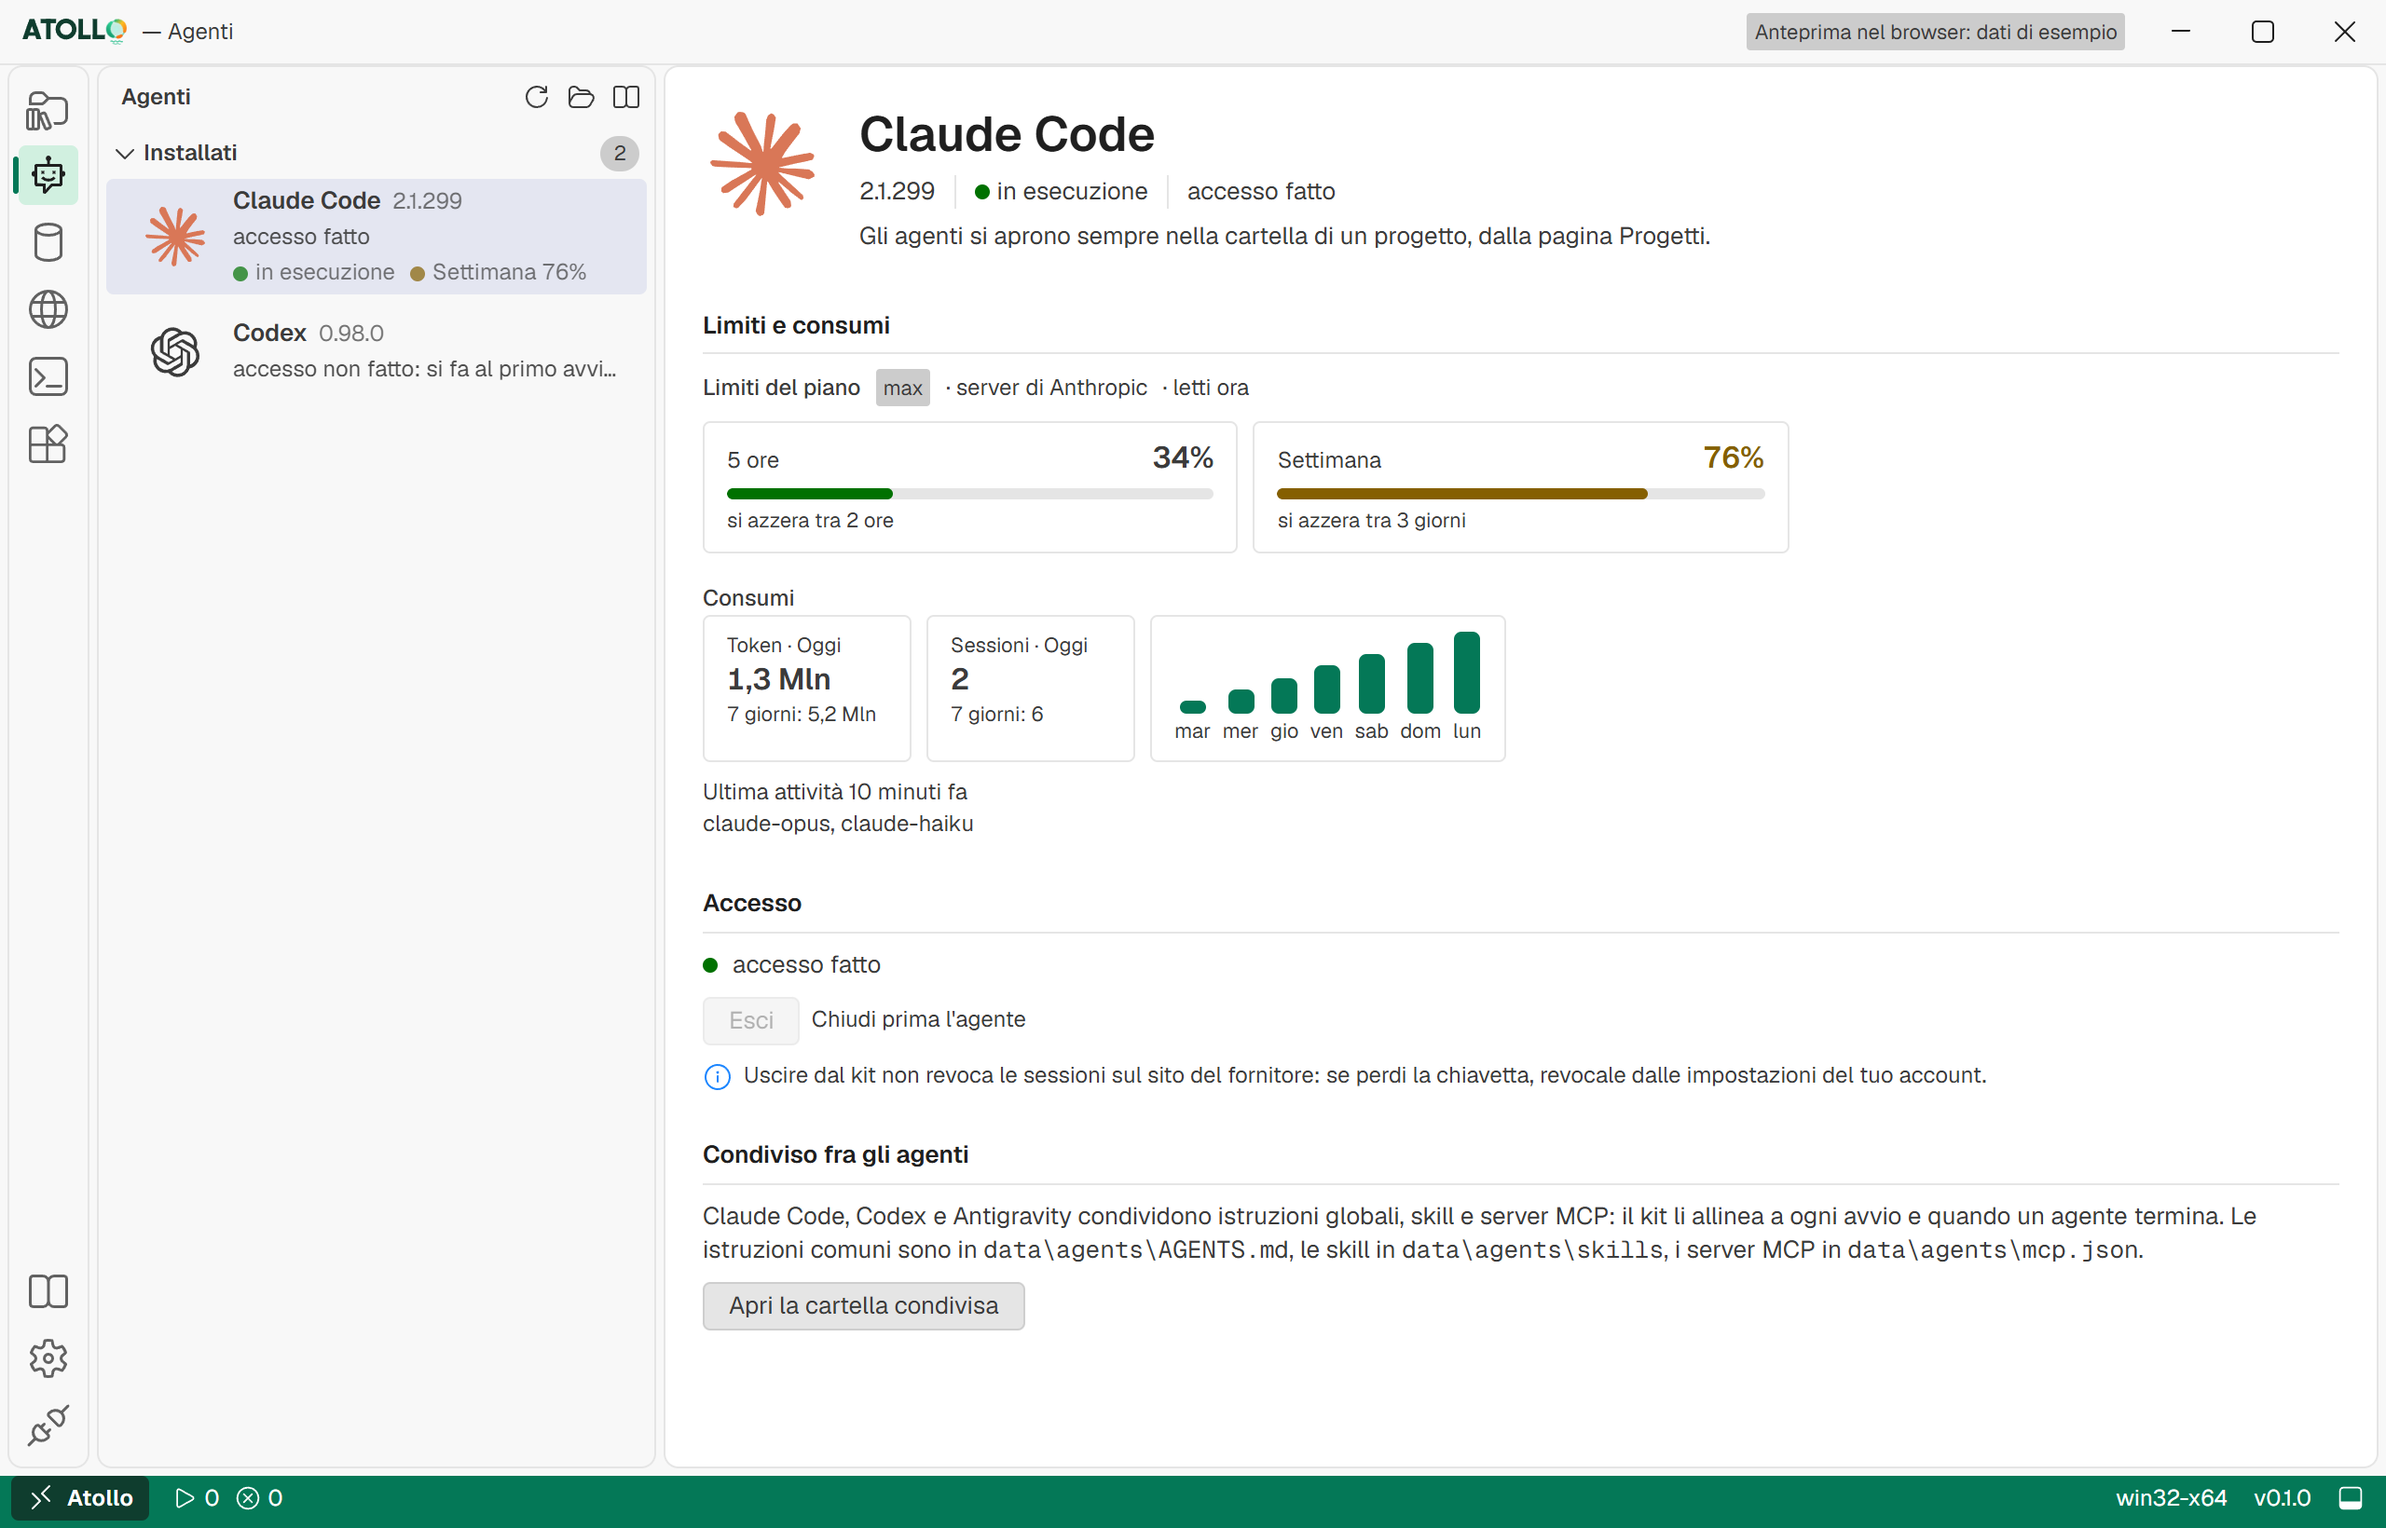
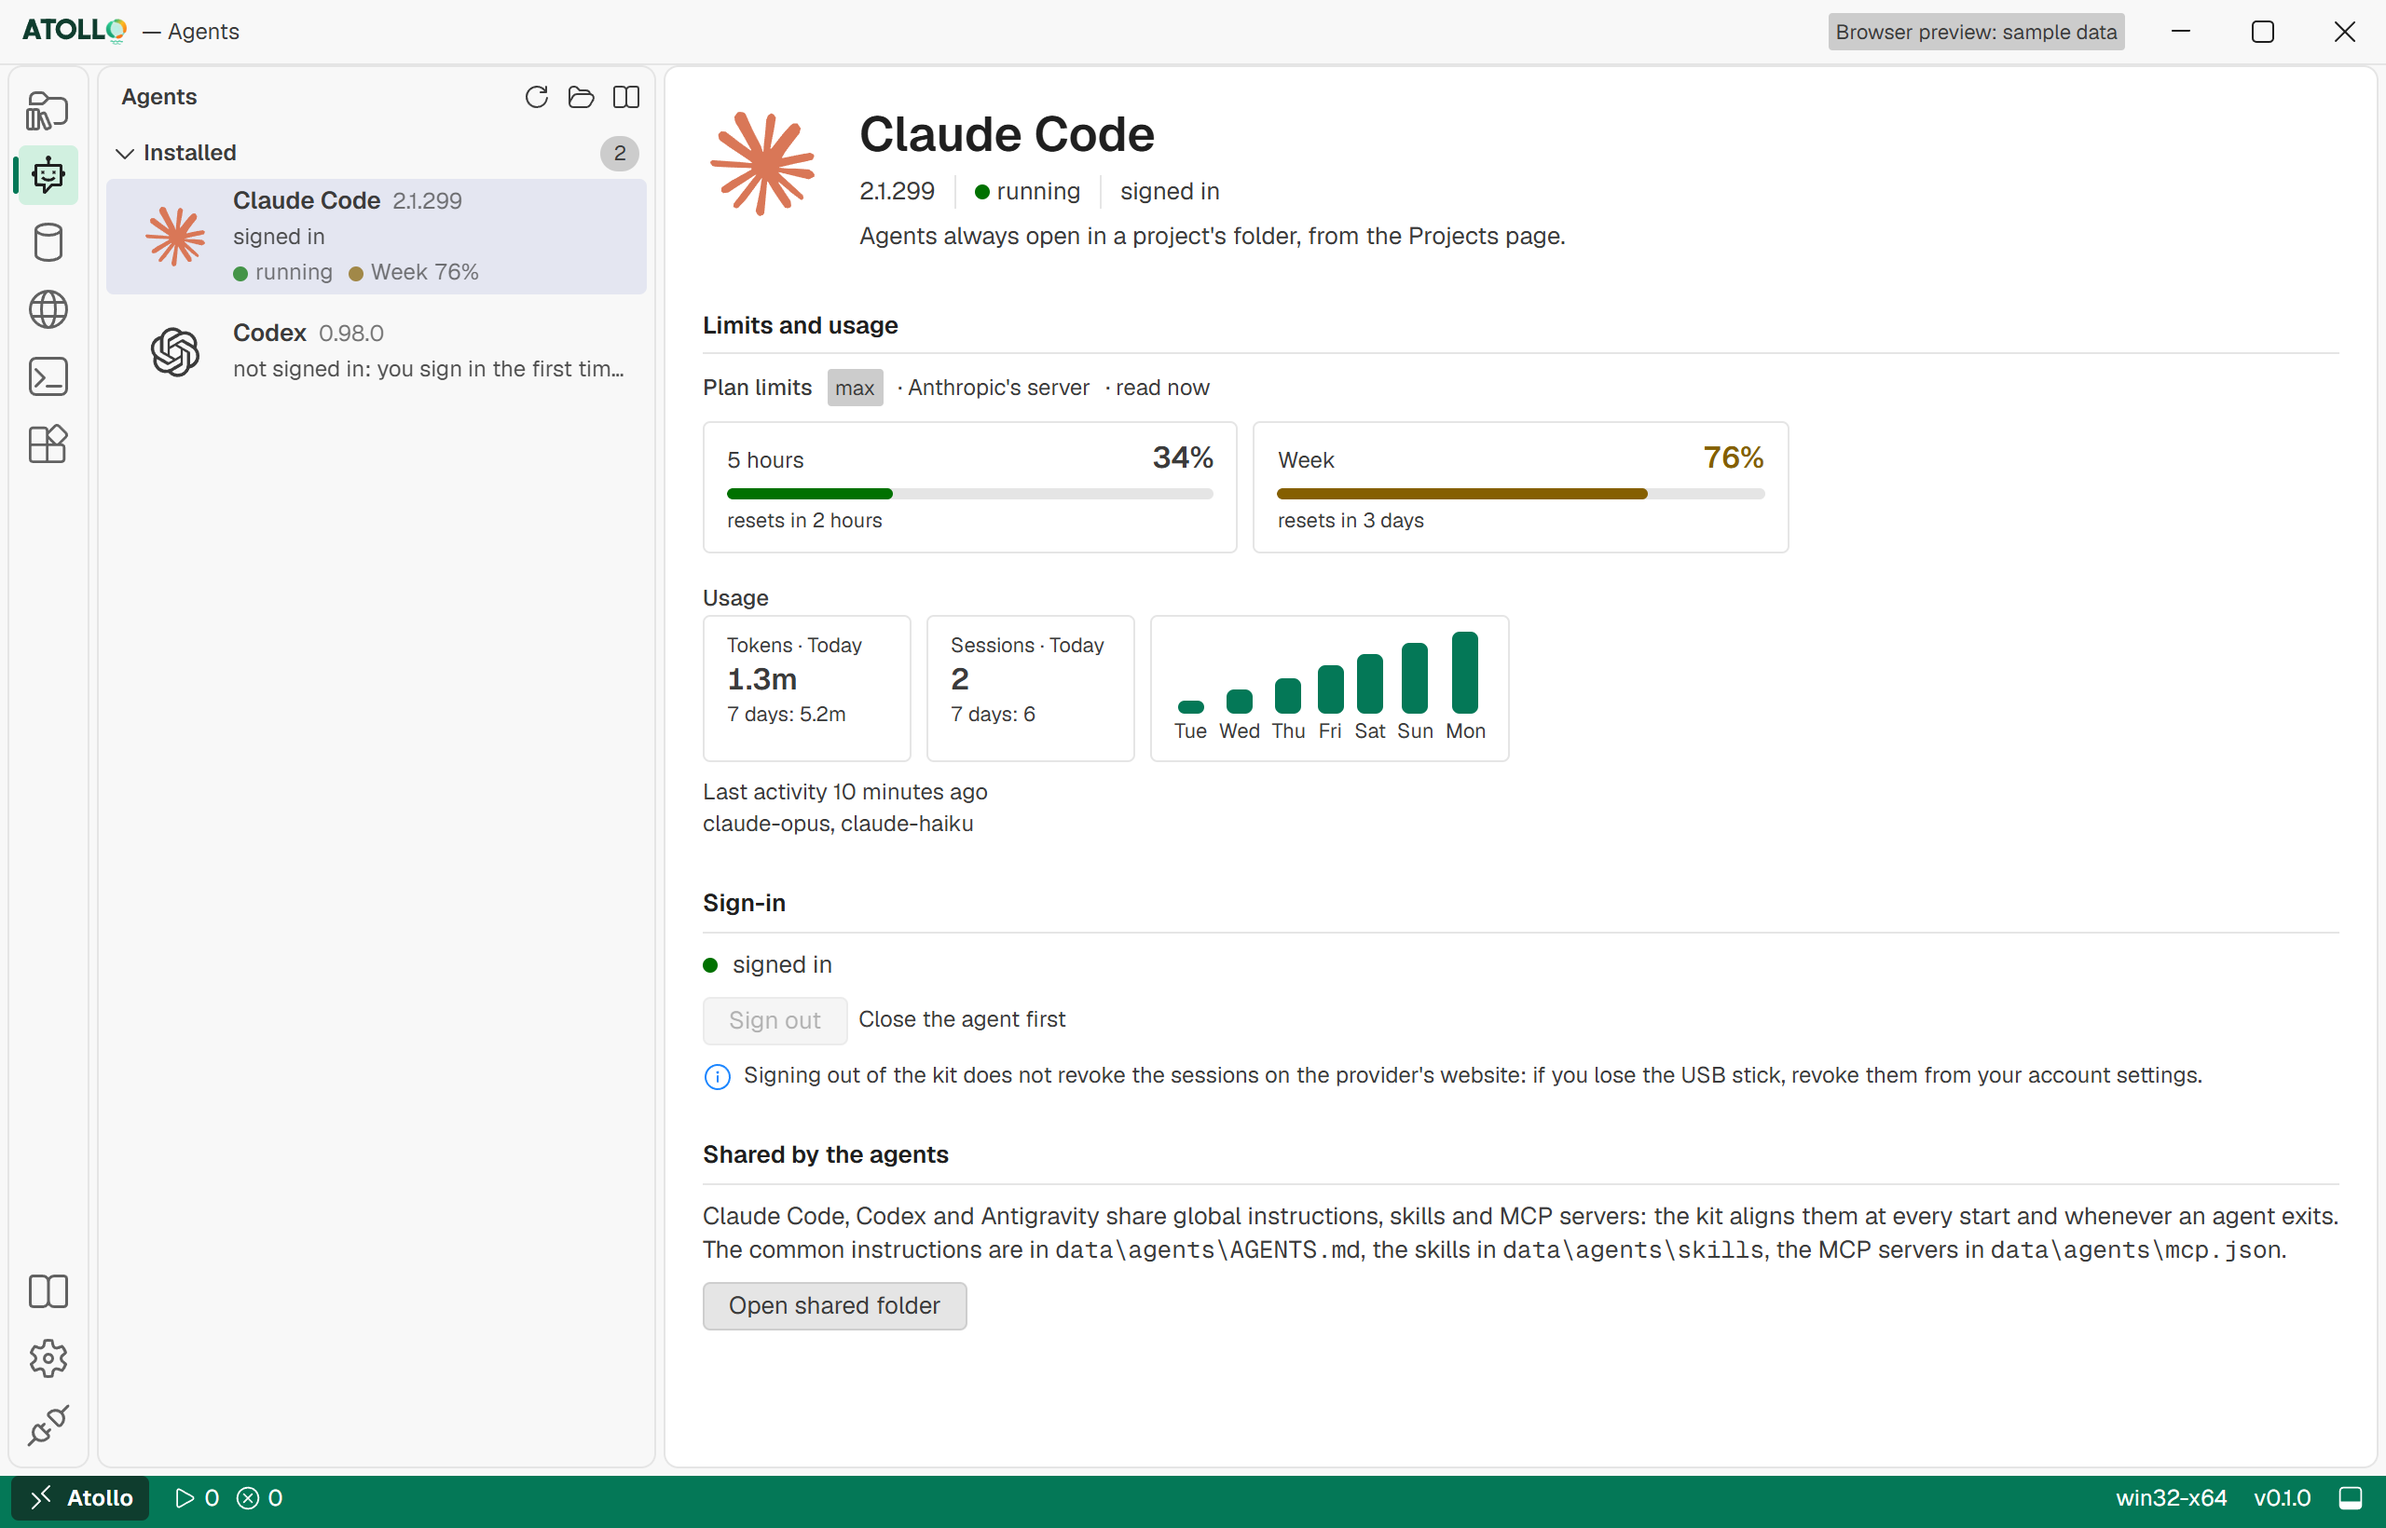
feat(site): the screenshots show the app in English
The browser preview takes ?lang=en|fr|de (core.ts previewLang) and the
texts the engine sends already translated ("Sito statico", "5 ore",
"Settimana", "server di Anthropic") pass through engineText in the
sample data, with their translation beside them. make.mjs shoots the
six screenshots in English: the site in every language and the READMEs
show them (D-135).

diff --git a/ui/src/api/agents.ts b/ui/src/api/agents.ts
@@ -2,7 +2,7 @@
 // (tauri/src/stats), launch. Rust: tauri/src/commands/agents.rs.
 
 import { invoke } from "@tauri-apps/api/core";
-import { act, browserPreview, query } from "./core";
+import { act, browserPreview, engineText, query } from "./core";
 
 export type AgentId = "claude" | "codex" | "antigravity";
 
@@ -120,6 +120,8 @@ export interface StatsReport {
 
 function sampleStats(): StatsReport {
   const day = 24 * 3600 * 1000;
+  const fiveHours = engineText("5 ore", { en: "5 hours", fr: "5 heures", de: "5 Stunden" });
+  const week = engineText("Settimana", { en: "Week", fr: "Semaine", de: "Woche" });
   const today = new Date();
   today.setHours(0, 0, 0, 0);
   const tokens = (n: number): Tokens => ({ input: n, cached: n * 8, output: n / 4, total: n * 9.25 });
@@ -143,7 +145,11 @@ function sampleStats(): StatsReport {
     plan: "max",
     windows,
     credits: null,
-    source: "server di Anthropic",
+    source: engineText("server di Anthropic", {
+      en: "Anthropic's server",
+      fr: "serveur d'Anthropic",
+      de: "Server von Anthropic",
+    }),
     note: null,
     error: null,
     updated: Date.now(),
@@ -160,12 +166,12 @@ function sampleStats(): StatsReport {
         name: "Claude Code",
         account: "ok",
         limits: limits([
-          { label: "5 ore", percent: 34, resetsAt: Date.now() + 2 * 3600000, level: "ok" },
-          { label: "Settimana", percent: 76, resetsAt: Date.now() + 3 * day, level: "warning" },
+          { label: fiveHours, percent: 34, resetsAt: Date.now() + 2 * 3600000, level: "ok" },
+          { label: week, percent: 76, resetsAt: Date.now() + 3 * day, level: "warning" },
         ]),
         usage,
         peak: 76,
-        peakLabel: "Settimana",
+        peakLabel: week,
         level: "warning",
       },
     ],

diff --git a/ui/src/api/core.ts b/ui/src/api/core.ts
@@ -10,6 +10,19 @@ import { listen } from "@tauri-apps/api/event";
 /** True when the page runs in the browser instead of the Atollo window. */
 export const browserPreview = !isTauri();
 
+/** The browser preview's language: `?lang=en` (the site's screenshots,
+ * site/shots/make.mjs), Italian otherwise. */
+export const previewLang: "it" | "en" | "fr" | "de" = (() => {
+  const asked = new URLSearchParams(location.search).get("lang");
+  return asked === "en" || asked === "fr" || asked === "de" ? asked : "it";
+})();
+
+/** A text the engine sends already translated (tauri/i18n/catalog.json),
+ * in the sample data: the Italian, or its translation in `previewLang`. */
+export function engineText(it: string, tr: { en: string; fr: string; de: string }): string {
+  return previewLang === "it" ? it : tr[previewLang];
+}
+
 /** A command that answers with data; `preview` is the answer in the browser. */
 export function query<T>(cmd: string, preview: T, args?: InvokeArgs): Promise<T> {
   return browserPreview ? Promise.resolve(preview) : invoke<T>(cmd, args);

diff --git a/ui/src/api/app.ts b/ui/src/api/app.ts
@@ -2,7 +2,7 @@
 // (the PC's browser, File Explorer). Rust: tauri/src/commands/app.rs.
 
 import { invoke } from "@tauri-apps/api/core";
-import { act, browserPreview, query } from "./core";
+import { act, browserPreview, previewLang, query } from "./core";
 
 export interface AppInfo {
   version: string;
@@ -33,20 +33,13 @@ export interface AppInfo {
   systemTemp: string | null;
 }
 
-/** The browser preview's language: `?lang=en` (the site's screenshots,
- * site/shots/make.mjs), Italian otherwise. */
-function previewLang(): AppInfo["lang"] {
-  const asked = new URLSearchParams(location.search).get("lang");
-  return asked === "en" || asked === "fr" || asked === "de" ? asked : "it";
-}
-
 const SAMPLE_INFO: AppInfo = {
   version: "0.1.0",
   root: "E:\\Atollo",
   data: "E:\\Atollo\\data",
   projects: "E:\\Atollo\\projects",
   platform: "win32-x64",
-  lang: previewLang(),
+  lang: previewLang,
   movedFrom: null,
   webview: "anteprima nel browser",
   pathEntries: 0,

diff --git a/ui/src/api/projects.ts b/ui/src/api/projects.ts
@@ -1,7 +1,7 @@
 // Projects (tauri/src/projects/): list, creation, clone, status, actions
 // (panel.json), site and MCP servers. Rust: tauri/src/commands/projects.rs.
 
-import { act, query } from "./core";
+import { act, engineText, query } from "./core";
 
 export type ActionKind = "web" | "desktop" | "command";
 
@@ -101,7 +101,7 @@ export const SAMPLE_PROJECTS: ProjectInfo[] = [
     modified: 1_791_900_000,
     empty: false,
     missing: [],
-    platform: "Sito statico",
+    platform: engineText("Sito statico", { en: "Static site", fr: "Site statique", de: "Statische Website" }),
     type: "web",
     reason: "index.html",
     languages: ["HTML", "CSS"],

diff --git a/docs/app/DECISIONS.md b/docs/app/DECISIONS.md
@@ -1265,8 +1265,8 @@ Superata il 16/10/2026 da D-95: Windows Terminal non è più nel kit e le consol
 - **Sito.** L'inglese è alla radice di `https://nabre.github.io/atollo/` (ed è `x-default`), l'italiano in `it/`; `en/` resta come rimando alla radice (`noindex`, `canonical`) per i link già in giro. Ogni pagina ha `og:locale` con le alternative, `og:site_name`, le dimensioni e il testo di `og:image`, la Twitter card, `meta keywords` in inglese e il JSON-LD `SoftwareApplication` (sistemi, architetture, versione, download, licenza, gratuità). `sitemap.xml` elenca le quattro pagine con le alternative `hreflang`: va inviata a mano in Google Search Console e Bing Webmaster Tools. Niente `robots.txt`: sotto `/atollo/` non lo legge nessuno.
 - **Metadati.** `package.json` ha descrizione lunga, `keywords`, `homepage`, `repository`, `bugs`, `license`; `tauri/Cargo.toml` `repository`, `homepage`, `readme`, `keywords`, `categories`. La `description` di Cargo non cambia: è il `FileDescription` dell'exe che la CI controlla. Su GitHub descrizione, sito e 20 topic del repository (in inglese) sono impostati con `gh repo edit`; le `keywords` di `package.json` sono gli stessi 20 topic.
 - **Scartati.** Tradurre anche DECISIONS.md e CHANGELOG.md (oltre 2.000 righe di storia, nessun beneficio per le ricerche). Un `README.md` con le quattro lingue in una pagina sola: lungo, e GitHub mostra comunque solo la radice. Lasciare il sito con l'italiano alla radice: i motori trattano la radice come la pagina principale.
-- **Schermate.** L'anteprima nel browser accetta `?lang=en|fr|de` (solo i dati di esempio, l'app vera usa la sua impostazione) e `site/shots/make.mjs` fotografa l'app in inglese salvo `SHOTS_LANG`: le stesse schermate servono il sito in ogni lingua e i README.
-- **Resta.** Rifare le schermate di `site/shots` con `make.mjs` (oggi sono in italiano). Le 16 schermate della guida (`docs/app/images`) sono in italiano e mostrano ancora il vecchio marchio: vanno rifatte in inglese con Atollo. L'immagine di anteprima del repository (Settings › Social preview) si carica solo dal sito di GitHub.
+- **Schermate.** L'anteprima nel browser accetta `?lang=en|fr|de` (solo i dati di esempio, l'app vera usa la sua impostazione) e `site/shots/make.mjs` fotografa l'app in inglese salvo `SHOTS_LANG`: le stesse schermate servono il sito in ogni lingua e i README. I testi che il motore manda già tradotti (`tauri/i18n/catalog.json`: «Sito statico», «5 ore», «Settimana», «server di Anthropic») passano nei dati di esempio per `engineText` (`ui/src/api/core.ts`), con la loro traduzione scritta accanto: importare il catalogo del motore (106 kB) nell'interfaccia solo per l'anteprima non vale il peso. Rifatte il 19/10/2026, in inglese.
+- **Resta.** Le 16 schermate della guida (`docs/app/images`) sono in italiano e mostrano ancora il vecchio marchio: vanno rifatte in inglese con Atollo. L'immagine di anteprima del repository (Settings › Social preview) si carica solo dal sito di GitHub.
 
 ## D-136 La Guida dell'app ripensata in nove capitoli
 
